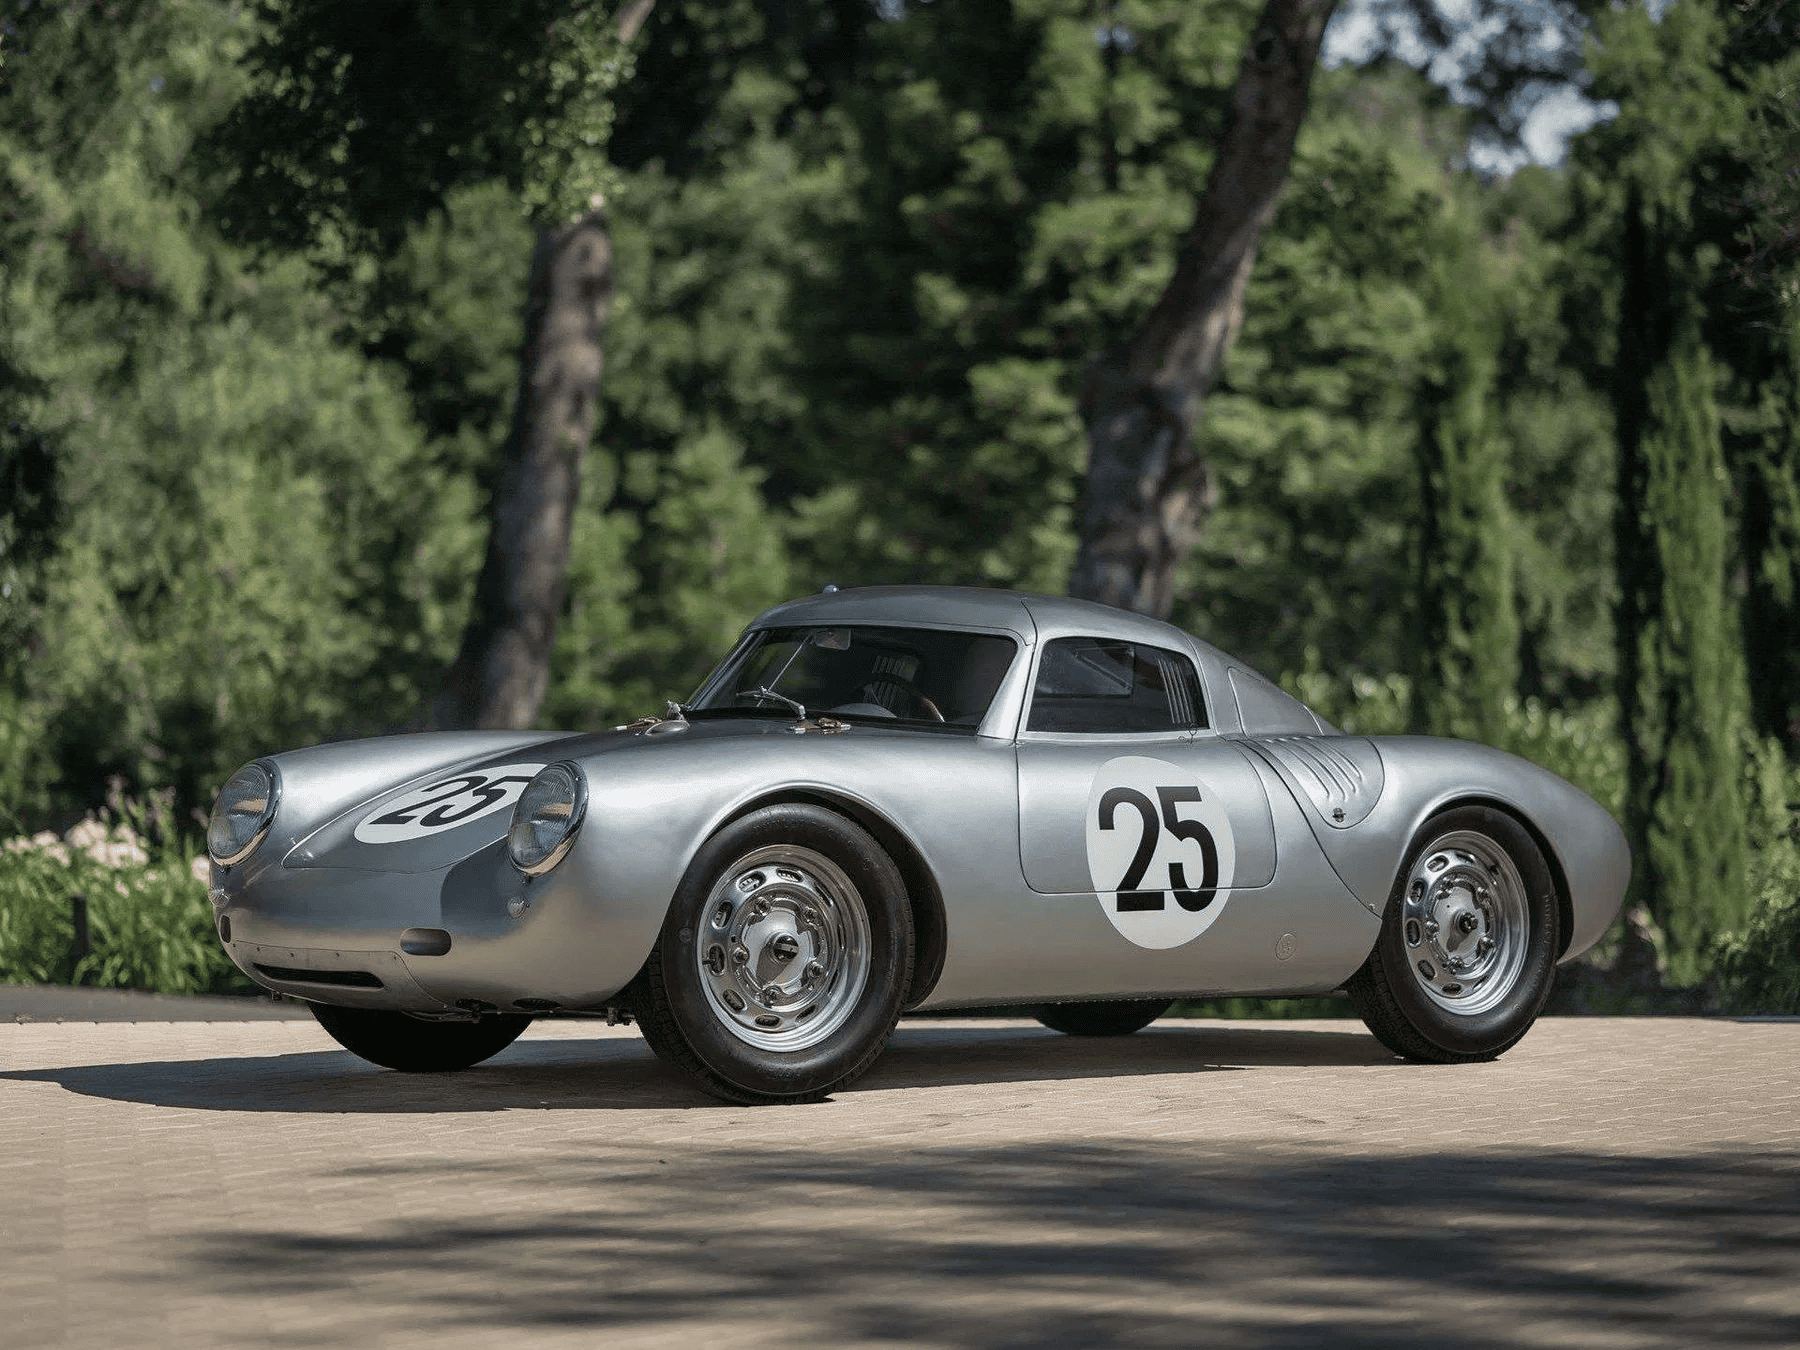
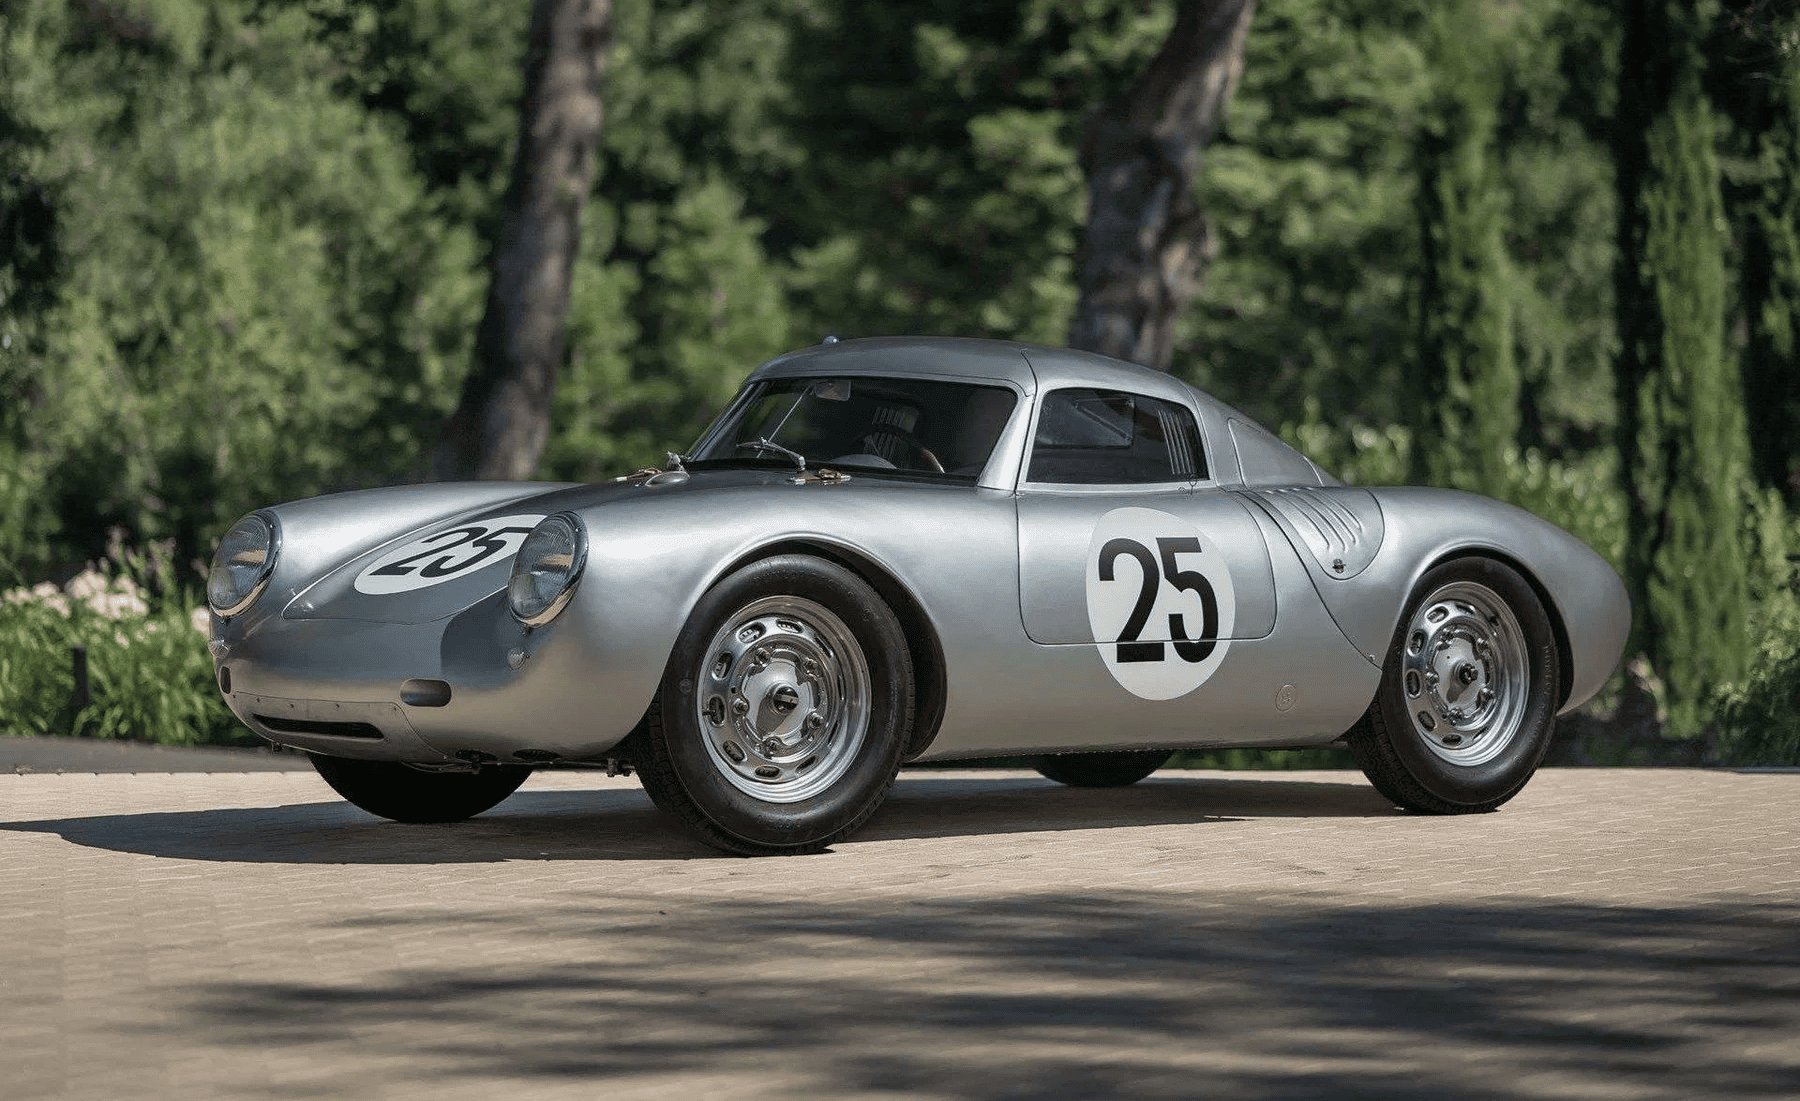
fix: arruma imagens cortadas

diff --git a/index.html b/index.html
@@ -88,7 +88,7 @@
                     <p>Aprox. US$ 5,33 milhões - Precursor direto da linhagem de competição leve da marca.</p>
                 </article>
                 <article class="card">
-                    <img src="assets/img/porsche-550a-spyder.jpg" alt="imagem da Porsche 550A Spyder"/>
+                    <img src="assets/img/porsche-550a-spyder.png" alt="imagem da Porsche 550A Spyder"/>
                     <h3>12. Porsche 550A Spyder (1958)</h3>
                     <p>Aprox. US$ 5,17 milhões - Evolução mecânica refinada do clássico de James Dean.</p>
                 </article>
